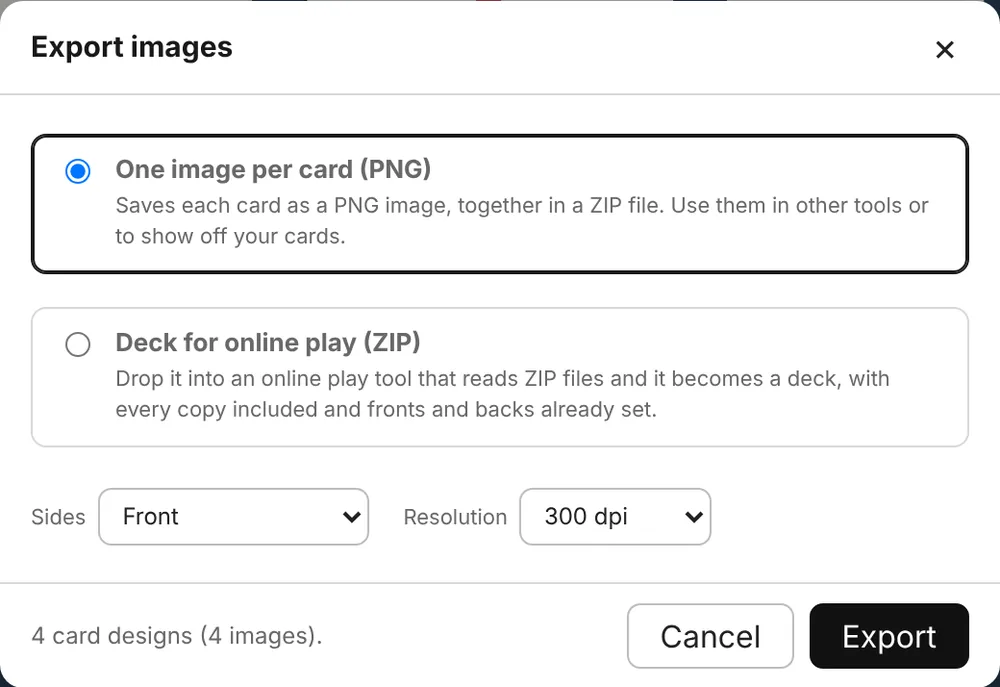
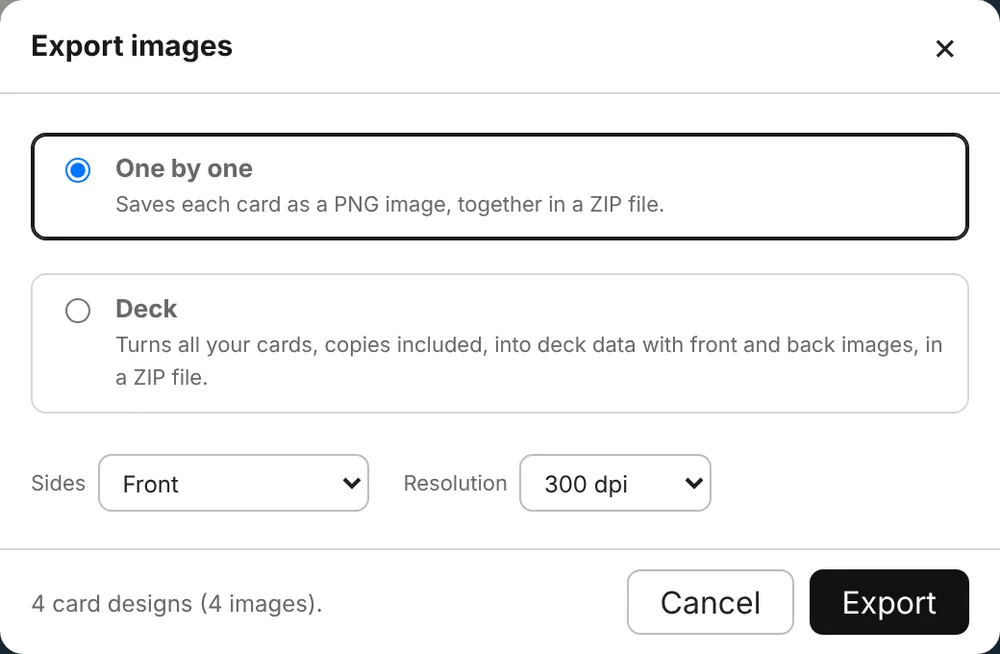
カードモックツクール(テスト版): 書き出しの種類の名前を「1枚ずつ」「山札」に(説明もぼかす)
Claude-Session: https://claude.ai/code/session_01MypZ6bnFd6NWuA9aApFgtm

diff --git a/card-mock-maker-next/guide/index.html b/card-mock-maker-next/guide/index.html
@@ -543,16 +543,15 @@
   <div>
     <p lang="ja"><b class="ui">•••</b>の<b class="ui">画像で書き出す</b>で、カードを画像にしてZIPファイルで保存します。書き出し方は2つあります。</p><p lang="en"><b class="ui">Export images</b> in the <b class="ui">•••</b> menu saves your cards as images in a ZIP file, in one of two ways.</p>
   </div>
-  <figure class="shot "><img style="max-width:420px" lang="ja" src="img/export-ja.webp?v=20261026" width="1000" height="429" alt="画像で書き出す" loading="lazy" decoding="async"><img style="max-width:420px" lang="en" src="img/export-en.webp?v=20261026" width="1000" height="429" alt="Export images" loading="lazy" decoding="async"><figcaption><span lang="ja">画像で書き出す</span><span lang="en">Export images</span></figcaption></figure>
+  <figure class="shot "><img style="max-width:420px" lang="ja" src="img/export-ja.webp?v=20261026" width="1000" height="694" alt="画像で書き出す" loading="lazy" decoding="async"><img style="max-width:420px" lang="en" src="img/export-en.webp?v=20261026" width="1000" height="687" alt="Export images" loading="lazy" decoding="async"><figcaption><span lang="ja">画像で書き出す</span><span lang="en">Export images</span></figcaption></figure>
 </div>
-<h3><span lang="ja">カード1枚ずつの画像（PNG）</span><span lang="en">One image per card (PNG)</span></h3>
+<h3><span lang="ja">1枚ずつ</span><span lang="en">One by one</span></h3>
 <p lang="ja">カードを1枚ずつPNG画像にします。ほかのツールで使ったり、紹介画像にしたりできます。</p><p lang="en">Each card becomes a PNG image, for other tools or for showing off your cards.</p>
 <ul lang="ja"><li><b class="ui">書き出す面</b>：<b class="ui">オモテ面</b>・<b class="ui">ウラ面</b>・<b class="ui">オモテ面とウラ面</b>から選べます（片面のときはオモテ面だけ）。</li><li><b class="ui">解像度</b>：150 dpi か 300 dpi。印刷に使うなら300 dpiがおすすめです。</li><li>同じカードは1つにまとめ、ファイル名に「_x3」のように枚数が入ります。空のカードは書き出しません。</li></ul><ul lang="en"><li><b class="ui">Sides</b>: <b class="ui">Front</b>, <b class="ui">Back</b> or <b class="ui">Front and back</b> (front only for single-sided).</li><li><b class="ui">Resolution</b>: 150 or 300 dpi. Use 300 dpi if you'll print them.</li><li>Copies are exported once, with the count in the file name, like “_x3”. Empty cards are skipped.</li></ul>
-<h3><span lang="ja">オンライン用の山札（ZIP）</span><span lang="en">Deck for online play (ZIP)</span></h3>
-<p lang="ja">ZIPファイルを読み込めるオンラインセッションツールで、作ったカードをそのまま山札として使えます。枚数ぶんのカードが入り、オモテ・ウラの画像も設定済みです。</p><p lang="en">Use your cards as a ready-made deck in an online play tool that reads ZIP files. Every copy is included, and fronts and backs are already set.</p>
-<ol class="steps" lang="ja"><li>書き出したZIPファイルを、ツールの画面（テーブル）にドラッグ&ドロップします。</li><li>山札が置かれます。カードはウラ向きで入っています。</li></ol><ol class="steps" lang="en"><li>Drag and drop the exported ZIP file onto the tool’s table.</li><li>A deck appears, with the cards face down.</li></ol>
+<h3><span lang="ja">山札</span><span lang="en">Deck</span></h3>
+<p lang="ja">枚数ぶんのカードを、オモテ・ウラの画像つきの山札データにして、ZIPファイルにまとめます。山札データを読み込めるツールなら、ZIPファイルをドラッグ&ドロップするだけで、ウラ向きの山札として置けます。</p><p lang="en">Turns all your cards, copies included, into deck data with front and back images, in a ZIP file. In a tool that reads deck data, just drag and drop the ZIP file to get a face-down deck.</p>
 <ul lang="ja"><li><b class="ui">山札の分け方</b>：<b class="ui">ひとつにまとめる</b>・<b class="ui">テンプレートごと</b>・<b class="ui">ウラ面ごと</b>から選べます。山札が複数あるときは同じ場所に重なって置かれるので、ずらして使ってください。</li><li><b class="ui">カードの大きさ</b>：テーブルのマス目いくつぶんの幅にするか。ふつうは2マスです。</li><li><b class="ui">画像の大きさ</b>：画像は参加者どうしで送り合うので、軽い<b class="ui">標準（横480px）</b>がおすすめです。</li><li>カード名（トレカのカード名など）と本文も、カードのデータに入ります。</li></ul><ul lang="en"><li><b class="ui">Decks</b>: <b class="ui">One deck</b>, <b class="ui">One per template</b> or <b class="ui">One per card back</b>. Several decks land on the same spot, so drag them apart.</li><li><b class="ui">Card size</b>: how many table squares wide each card is. 2 is standard.</li><li><b class="ui">Image size</b>: images are sent between players, so the lighter <b class="ui">Standard (480px wide)</b> is recommended.</li><li>Card names (such as the trading card name) and card text go into each card’s data too.</li></ul>
-<div class="note tip"><b class="note-l"><span lang="ja">ヒント</span><span lang="en">Tip</span></b><p lang="ja">ZIPファイルの読み込みに対応しているかは、ツールによって違います。</p><p lang="en">Whether a tool can read the ZIP file depends on the tool.</p></div>
+<div class="note tip"><b class="note-l"><span lang="ja">ヒント</span><span lang="en">Tip</span></b><p lang="ja">山札データを読み込めるかどうかは、ツールによって違います。</p><p lang="en">Whether a tool can read the deck data depends on the tool.</p></div>
 
 </section>
 <section class="g-sec" id="phone" aria-labelledby="phone-h">

diff --git a/card-mock-maker-next/i18n.js b/card-mock-maker-next/i18n.js
@@ -72,9 +72,9 @@ const EN={
   "ウラ面は、紙を上下に裏返したとき重なるように、上下を入れ替えて並べています。":"This is how the backs print: swapped top and bottom so they line up when the sheet is flipped top to bottom.",
   "ウラ面は、紙を左右に裏返したときオモテと重なる位置に並びます。最初は1枚だけ試し刷りしてください。":"Backs are placed where they line up with the fronts when the sheet is flipped sideways. Do a single test print first.",
   "ウラ面は、紙を上下に裏返したときオモテと重なる位置に並びます。最初は1枚だけ試し刷りしてください。":"Backs are placed where they line up with the fronts when the sheet is flipped top to bottom. Do a single test print first.",
-  "カード1枚ずつの画像（PNG）":"One image per card (PNG)","カードを1枚ずつPNG画像にして、ZIPファイルにまとめます。ほかのツールで使ったり、紹介画像にしたりできます。":"Saves each card as a PNG image, together in a ZIP file. Use them in other tools or to show off your cards.",
-  "オンライン用の山札（ZIP）":"Deck for online play (ZIP)","ZIPファイルを読み込めるオンラインセッションツールに、そのまま山札として置けます。枚数ぶんのカードが入り、オモテ・ウラも設定済みです。":"Drop it into an online play tool that reads ZIP files and it becomes a deck, with every copy included and fronts and backs already set.",
-  "山札の分け方":"Decks","ひとつにまとめる":"One deck","テンプレートごと":"One per template","ウラ面ごと":"One per card back",
+  
+  
+  "カードを1枚ずつPNG画像にして、ZIPファイルにまとめます。":"Saves each card as a PNG image, together in a ZIP file.","枚数ぶんのカードを、オモテ・ウラの画像つきの山札データにして、ZIPファイルにまとめます。":"Turns all your cards, copies included, into deck data with front and back images, in a ZIP file.","山札の分け方":"Decks","ひとつにまとめる":"One deck","テンプレートごと":"One per template","ウラ面ごと":"One per card back",
   "カードの大きさ":"Card size","1.5マス":"1.5 squares","2マス（標準）":"2 squares (standard)","2.5マス":"2.5 squares","3マス":"3 squares",
   "画像の大きさ":"Image size","標準（横480px）":"Standard (480px wide)","高画質（横720px）":"High quality (720px wide)",
   "{m}枚のカードで、山札を{s}つ作ります。":"{m} cards in {s} deck(s).","山札のZIPを書き出しました":"Deck ZIP exported","山札":"Deck","そのほか":"Others",

diff --git a/card-mock-maker-next/index.html b/card-mock-maker-next/index.html
@@ -98,8 +98,8 @@
     <div class="modal-head"><strong id="exportTitle">画像で書き出す</strong><button type="button" class="modal-close" data-export-close aria-label="閉じる">×</button></div>
     <div class="modal-body">
       <div class="export-kind">
-        <label class="export-opt"><input type="radio" name="exportKind" value="cards" checked><span><b>カード1枚ずつの画像（PNG）</b><small>カードを1枚ずつPNG画像にして、ZIPファイルにまとめます。ほかのツールで使ったり、紹介画像にしたりできます。</small></span></label>
-        <label class="export-opt"><input type="radio" name="exportKind" value="deck"><span><b>オンライン用の山札（ZIP）</b><small>ZIPファイルを読み込めるオンラインセッションツールに、そのまま山札として置けます。枚数ぶんのカードが入り、オモテ・ウラも設定済みです。</small></span></label>
+        <label class="export-opt"><input type="radio" name="exportKind" value="cards" checked><span><b>1枚ずつ</b><small>カードを1枚ずつPNG画像にして、ZIPファイルにまとめます。</small></span></label>
+        <label class="export-opt"><input type="radio" name="exportKind" value="deck"><span><b>山札</b><small>枚数ぶんのカードを、オモテ・ウラの画像つきの山札データにして、ZIPファイルにまとめます。</small></span></label>
       </div>
       <div id="exportCardsOpts" class="export-opts">
         <label class="ds-item" id="exportSidesRow"><span>書き出す面</span><select id="exportSides"><option value="front">オモテ面</option><option value="back">ウラ面</option><option value="both">オモテ面とウラ面</option></select></label>
